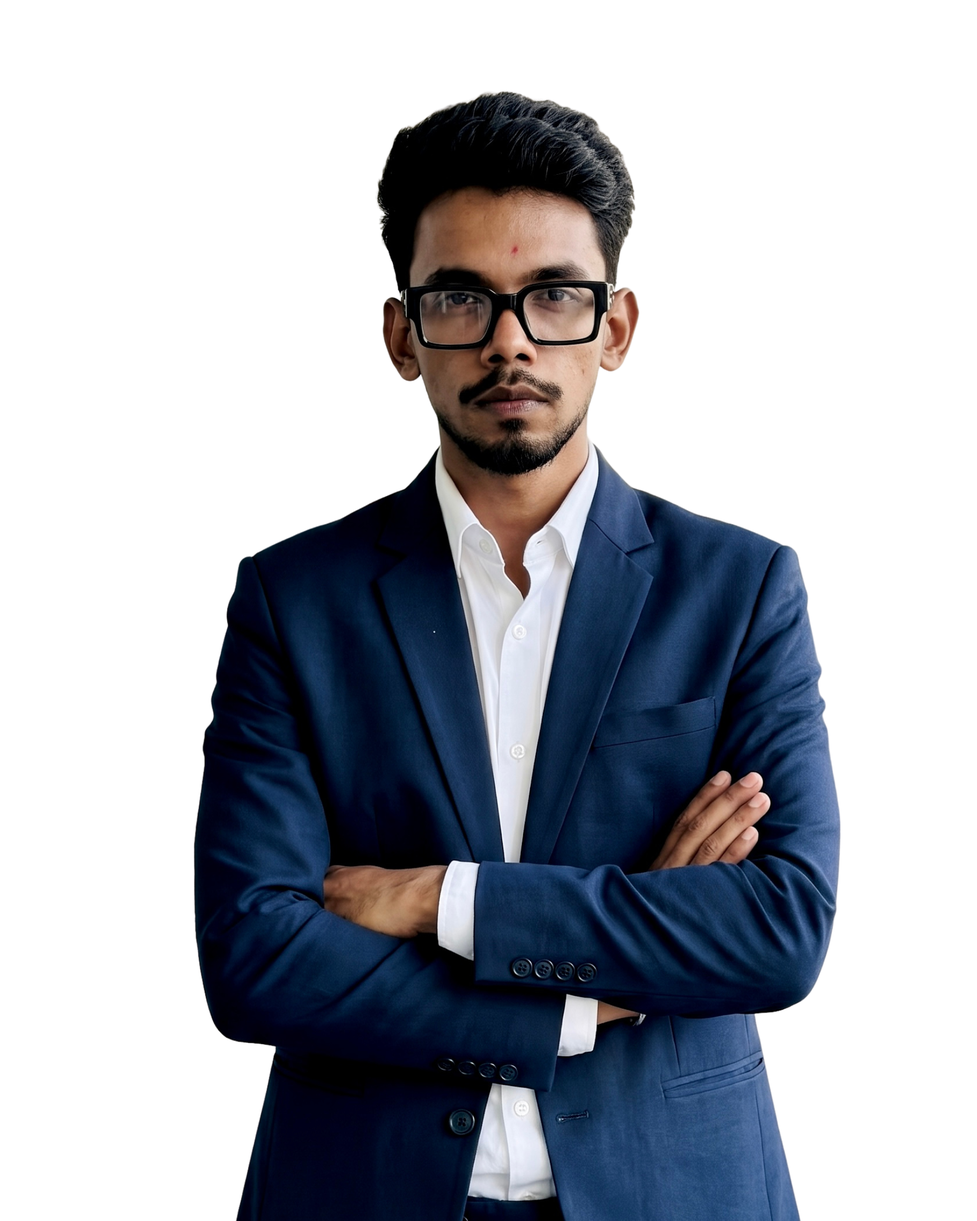
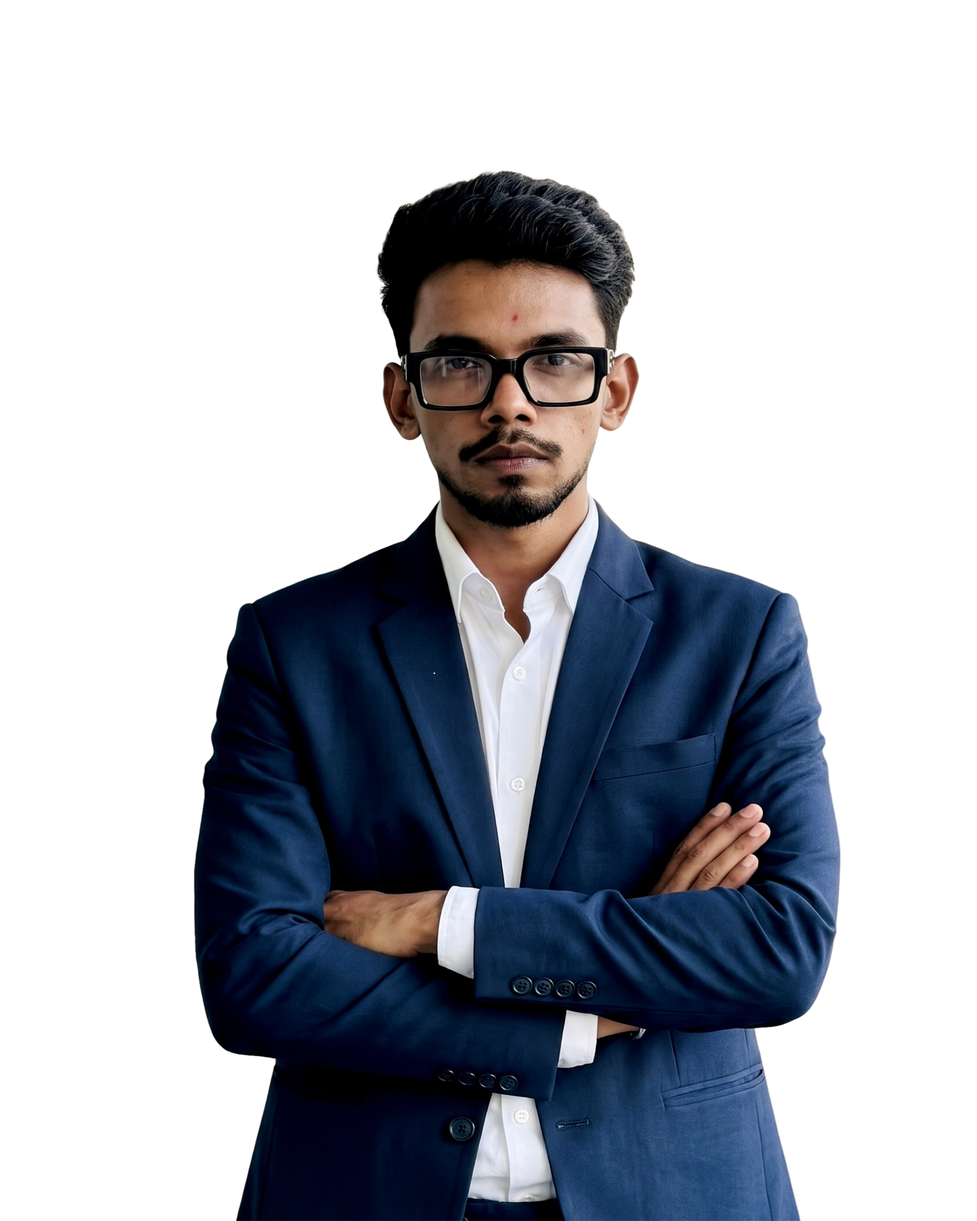
Fix founder image headroom, update agency metrics to 120+ brands / 1000+ reels / 5K+ leads, and link official social media profiles site-wide

diff --git a/home/index.html b/home/index.html
@@ -369,15 +369,15 @@
         <p class="sd-stat-label">Brands Served</p>
       </div>
       <div class="sd-stat-card" style="--i:1">
-        <div class="sd-stat-num"><span class="sd-num" data-target="3500" data-comma="true">0</span>+</div>
+        <div class="sd-stat-num"><span class="sd-num" data-target="1000" data-comma="true">0</span>+</div>
         <p class="sd-stat-label">Reels Created</p>
       </div>
       <div class="sd-stat-card" style="--i:2">
-        <div class="sd-stat-num"><span class="sd-num" data-target="1200" data-comma="true">0</span>+</div>
+        <div class="sd-stat-num"><span class="sd-num" data-target="500" data-comma="true">0</span>+</div>
         <p class="sd-stat-label">Blogs Published</p>
       </div>
       <div class="sd-stat-card" style="--i:3">
-        <div class="sd-stat-num"><span class="sd-num" data-target="250" data-comma="false">0</span>K+</div>
+        <div class="sd-stat-num"><span class="sd-num" data-target="5" data-comma="false">0</span>K+</div>
         <p class="sd-stat-label">Leads Generated</p>
       </div>
     </div>
@@ -649,7 +649,7 @@
   .fd-photo{position:absolute;inset:6%;border-radius:36px;overflow:hidden;background:linear-gradient(145deg,#2a2b30,#18191c);border:1px solid #2c2d31;display:grid;place-items:center;transform:rotate(-3deg);transition:transform .6s cubic-bezier(.2,.7,.2,1);box-shadow:0 0 80px rgba(255,214,10,.15)}
   .fd-vis:hover .fd-photo{transform:rotate(0)}
   .fd-photo span{font:700 120px/1 'Outfit',sans-serif;color:var(--y);opacity:.9}
-  .fd-photo img{position:absolute;inset:0;width:100%;height:100%;object-fit:cover}
+  .fd-photo img{position:absolute;inset:0;width:100%;height:100%;object-fit:cover;object-position:center top}
   .fd-chip{position:absolute;padding:12px 16px;border-radius:16px;background:rgba(28,29,33,.9);backdrop-filter:blur(8px);border:1px solid #2a2b30;font:600 13px/1.3 'Outfit',sans-serif;box-shadow:0 10px 30px rgba(0,0,0,.4);animation:zflt 5s ease-in-out infinite}
   .fd-chip strong{display:block;font-size:24px;color:var(--y)}
   .fd-chip.a{top:4%;right:-4%}.fd-chip.b{bottom:6%;left:-6%;animation-delay:-2.5s}
@@ -811,7 +811,7 @@
       <img src="assets/chandan rai.png" alt="Chandan Rai, Founder of Zyrox Media" onerror="this.style.display='none'">
      </div>
      <div class="fd-chip a"><strong>3+</strong>Years Groundwork</div>
-     <div class="fd-chip b"><strong>150+</strong>Brands Scaled</div>
+     <div class="fd-chip b"><strong>120+</strong>Brands Scaled</div>
     </div>
 
     <div class="fd-txt">
@@ -829,8 +829,8 @@
 
      <div class="fd-sign zrv" style="--i:7">
       <div><strong>Chandan Rai</strong><small>Founder, Zyrox Media</small></div>
-      <a href="https://linkedin.com" target="_blank" rel="noopener noreferrer" aria-label="LinkedIn"><svg class="ic" aria-hidden="true"><use href="#zx-in"/></svg></a>
-      <a href="https://instagram.com" target="_blank" rel="noopener noreferrer" aria-label="Instagram"><svg class="ic" aria-hidden="true"><use href="#zx-ig"/></svg></a>
+      <a href="https://www.linkedin.com/groups/40993074" target="_blank" rel="noopener noreferrer" aria-label="LinkedIn"><svg class="ic" aria-hidden="true"><use href="#zx-in"/></svg></a>
+      <a href="https://www.instagram.com/zyroxmediaad?obrf=NTVvMjM5dWs4bTN5&amp;utm_source=qr" target="_blank" rel="noopener noreferrer" aria-label="Instagram"><svg class="ic" aria-hidden="true"><use href="#zx-ig"/></svg></a>
       <a href="mailto:zyroxmediaa@gmail.com" aria-label="Email"><svg class="ic" aria-hidden="true"><use href="#zx-mail"/></svg></a>
       <button type="button" class="pf-btn" data-name="Chandan Rai" data-initials="CR" data-photo="assets/chandan rai.png" data-tagline="Founder &amp; Growth Architect|&amp;|Digital Strategist" data-summary="I didn’t just learn digital marketing—I spent the last three years doing the actual groundwork. Because I have personally sat down and executed everything from website coding and SEO to video editing, I understand the core of this work better than anyone. I know exactly what it takes to build things from scratch and deliver real results. Now, as the Founder of Zyrox Media, I bring that unmatched, hands-on expertise to scale brands effectively." data-stat="3+|Years of|Groundwork" data-skills="SEO Expert|Web Developer (WordPress &amp; Shopify)|Graphic Design|Video Editing &amp; Shoot|AI Tools &amp; Digital Strategy"><svg class="ic" aria-hidden="true"><use href="#zx-play"/></svg> View Portfolio</button>
      </div>
@@ -854,8 +854,8 @@
        <span>NS</span>
        <img src="assets/nitin soni.png" alt="Nitin Soni, Professional Video Editor at Zyrox Media" loading="lazy" onerror="this.style.display='none'">
        <div class="tm-soc">
-        <a href="https://linkedin.com" target="_blank" rel="noopener noreferrer" aria-label="LinkedIn"><svg class="ic" aria-hidden="true"><use href="#zx-in"/></svg></a>
-        <a href="https://instagram.com" target="_blank" rel="noopener noreferrer" aria-label="Instagram"><svg class="ic" aria-hidden="true"><use href="#zx-ig"/></svg></a>
+        <a href="https://www.linkedin.com/groups/40993074" target="_blank" rel="noopener noreferrer" aria-label="LinkedIn"><svg class="ic" aria-hidden="true"><use href="#zx-in"/></svg></a>
+        <a href="https://www.instagram.com/zyroxmediaad?obrf=NTVvMjM5dWs4bTN5&amp;utm_source=qr" target="_blank" rel="noopener noreferrer" aria-label="Instagram"><svg class="ic" aria-hidden="true"><use href="#zx-ig"/></svg></a>
         <a href="mailto:zyroxmediaa@gmail.com" aria-label="Email"><svg class="ic" aria-hidden="true"><use href="#zx-mail"/></svg></a>
        </div>
       </div>
@@ -872,8 +872,8 @@
        <span>KR</span>
        <img src="assets/kum kum.png" alt="Kumkum Rai, Social Media Manager &amp; Graphic Designer at Zyrox Media" loading="lazy" onerror="this.style.display='none'">
        <div class="tm-soc">
-        <a href="https://linkedin.com" target="_blank" rel="noopener noreferrer" aria-label="LinkedIn"><svg class="ic" aria-hidden="true"><use href="#zx-in"/></svg></a>
-        <a href="https://instagram.com" target="_blank" rel="noopener noreferrer" aria-label="Instagram"><svg class="ic" aria-hidden="true"><use href="#zx-ig"/></svg></a>
+        <a href="https://www.linkedin.com/groups/40993074" target="_blank" rel="noopener noreferrer" aria-label="LinkedIn"><svg class="ic" aria-hidden="true"><use href="#zx-in"/></svg></a>
+        <a href="https://www.instagram.com/zyroxmediaad?obrf=NTVvMjM5dWs4bTN5&amp;utm_source=qr" target="_blank" rel="noopener noreferrer" aria-label="Instagram"><svg class="ic" aria-hidden="true"><use href="#zx-ig"/></svg></a>
         <a href="mailto:zyroxmediaa@gmail.com" aria-label="Email"><svg class="ic" aria-hidden="true"><use href="#zx-mail"/></svg></a>
        </div>
       </div>
@@ -890,8 +890,8 @@
        <span>VS</span>
        <img src="assets/vishal singh.png" alt="Vishal Singh, Client Acquisition Specialist at Zyrox Media" loading="lazy" onerror="this.style.display='none'">
        <div class="tm-soc">
-        <a href="https://linkedin.com" target="_blank" rel="noopener noreferrer" aria-label="LinkedIn"><svg class="ic" aria-hidden="true"><use href="#zx-in"/></svg></a>
-        <a href="https://instagram.com" target="_blank" rel="noopener noreferrer" aria-label="Instagram"><svg class="ic" aria-hidden="true"><use href="#zx-ig"/></svg></a>
+        <a href="https://www.linkedin.com/groups/40993074" target="_blank" rel="noopener noreferrer" aria-label="LinkedIn"><svg class="ic" aria-hidden="true"><use href="#zx-in"/></svg></a>
+        <a href="https://www.instagram.com/zyroxmediaad?obrf=NTVvMjM5dWs4bTN5&amp;utm_source=qr" target="_blank" rel="noopener noreferrer" aria-label="Instagram"><svg class="ic" aria-hidden="true"><use href="#zx-ig"/></svg></a>
         <a href="mailto:zyroxmediaa@gmail.com" aria-label="Email"><svg class="ic" aria-hidden="true"><use href="#zx-mail"/></svg></a>
        </div>
       </div>
@@ -1431,10 +1431,10 @@
           </a>
           <p class="ft-about">Architecturally disciplined digital marketing agency engineering exponential organic and paid acquisition for ambitious global brands.</p>
           <div class="ft-soc">
-            <a href="https://instagram.com" target="_blank" rel="noopener noreferrer" aria-label="Instagram"><svg class="ft-ic"><use href="#ft-ig"/></svg></a>
-            <a href="https://linkedin.com" target="_blank" rel="noopener noreferrer" aria-label="LinkedIn"><svg class="ft-ic"><use href="#ft-in"/></svg></a>
-            <a href="https://youtube.com" target="_blank" rel="noopener noreferrer" aria-label="YouTube"><svg class="ft-ic"><use href="#ft-yt"/></svg></a>
-            <a href="https://facebook.com" target="_blank" rel="noopener noreferrer" aria-label="Facebook"><svg class="ft-ic"><use href="#ft-fb"/></svg></a>
+            <a href="https://www.instagram.com/zyroxmediaad?obrf=NTVvMjM5dWs4bTN5&amp;utm_source=qr" target="_blank" rel="noopener noreferrer" aria-label="Instagram"><svg class="ft-ic"><use href="#ft-ig"/></svg></a>
+            <a href="https://www.linkedin.com/groups/40993074" target="_blank" rel="noopener noreferrer" aria-label="LinkedIn"><svg class="ft-ic"><use href="#ft-in"/></svg></a>
+            <a href="https://www.youtube.com/@ZyroxMedia-s3m" target="_blank" rel="noopener noreferrer" aria-label="YouTube"><svg class="ft-ic"><use href="#ft-yt"/></svg></a>
+            <a href="https://www.facebook.com/share/1Dh3682e8E/?mibextid=wwXIfr" target="_blank" rel="noopener noreferrer" aria-label="Facebook"><svg class="ft-ic"><use href="#ft-fb"/></svg></a>
           </div>
         </div>
 

diff --git a/index.html b/index.html
@@ -369,15 +369,15 @@
         <p class="sd-stat-label">Brands Served</p>
       </div>
       <div class="sd-stat-card" style="--i:1">
-        <div class="sd-stat-num"><span class="sd-num" data-target="3500" data-comma="true">0</span>+</div>
+        <div class="sd-stat-num"><span class="sd-num" data-target="1000" data-comma="true">0</span>+</div>
         <p class="sd-stat-label">Reels Created</p>
       </div>
       <div class="sd-stat-card" style="--i:2">
-        <div class="sd-stat-num"><span class="sd-num" data-target="1200" data-comma="true">0</span>+</div>
+        <div class="sd-stat-num"><span class="sd-num" data-target="500" data-comma="true">0</span>+</div>
         <p class="sd-stat-label">Blogs Published</p>
       </div>
       <div class="sd-stat-card" style="--i:3">
-        <div class="sd-stat-num"><span class="sd-num" data-target="250" data-comma="false">0</span>K+</div>
+        <div class="sd-stat-num"><span class="sd-num" data-target="5" data-comma="false">0</span>K+</div>
         <p class="sd-stat-label">Leads Generated</p>
       </div>
     </div>
@@ -649,7 +649,7 @@
   .fd-photo{position:absolute;inset:6%;border-radius:36px;overflow:hidden;background:linear-gradient(145deg,#2a2b30,#18191c);border:1px solid #2c2d31;display:grid;place-items:center;transform:rotate(-3deg);transition:transform .6s cubic-bezier(.2,.7,.2,1);box-shadow:0 0 80px rgba(255,214,10,.15)}
   .fd-vis:hover .fd-photo{transform:rotate(0)}
   .fd-photo span{font:700 120px/1 'Outfit',sans-serif;color:var(--y);opacity:.9}
-  .fd-photo img{position:absolute;inset:0;width:100%;height:100%;object-fit:cover}
+  .fd-photo img{position:absolute;inset:0;width:100%;height:100%;object-fit:cover;object-position:center top}
   .fd-chip{position:absolute;padding:12px 16px;border-radius:16px;background:rgba(28,29,33,.9);backdrop-filter:blur(8px);border:1px solid #2a2b30;font:600 13px/1.3 'Outfit',sans-serif;box-shadow:0 10px 30px rgba(0,0,0,.4);animation:zflt 5s ease-in-out infinite}
   .fd-chip strong{display:block;font-size:24px;color:var(--y)}
   .fd-chip.a{top:4%;right:-4%}.fd-chip.b{bottom:6%;left:-6%;animation-delay:-2.5s}
@@ -811,7 +811,7 @@
       <img src="assets/chandan rai.png" alt="Chandan Rai, Founder of Zyrox Media" onerror="this.style.display='none'">
      </div>
      <div class="fd-chip a"><strong>3+</strong>Years Groundwork</div>
-     <div class="fd-chip b"><strong>150+</strong>Brands Scaled</div>
+     <div class="fd-chip b"><strong>120+</strong>Brands Scaled</div>
     </div>
 
     <div class="fd-txt">
@@ -829,8 +829,8 @@
 
      <div class="fd-sign zrv" style="--i:7">
       <div><strong>Chandan Rai</strong><small>Founder, Zyrox Media</small></div>
-      <a href="https://linkedin.com" target="_blank" rel="noopener noreferrer" aria-label="LinkedIn"><svg class="ic" aria-hidden="true"><use href="#zx-in"/></svg></a>
-      <a href="https://instagram.com" target="_blank" rel="noopener noreferrer" aria-label="Instagram"><svg class="ic" aria-hidden="true"><use href="#zx-ig"/></svg></a>
+      <a href="https://www.linkedin.com/groups/40993074" target="_blank" rel="noopener noreferrer" aria-label="LinkedIn"><svg class="ic" aria-hidden="true"><use href="#zx-in"/></svg></a>
+      <a href="https://www.instagram.com/zyroxmediaad?obrf=NTVvMjM5dWs4bTN5&amp;utm_source=qr" target="_blank" rel="noopener noreferrer" aria-label="Instagram"><svg class="ic" aria-hidden="true"><use href="#zx-ig"/></svg></a>
       <a href="mailto:zyroxmediaa@gmail.com" aria-label="Email"><svg class="ic" aria-hidden="true"><use href="#zx-mail"/></svg></a>
       <button type="button" class="pf-btn" data-name="Chandan Rai" data-initials="CR" data-photo="assets/chandan rai.png" data-tagline="Founder &amp; Growth Architect|&amp;|Digital Strategist" data-summary="I didn’t just learn digital marketing—I spent the last three years doing the actual groundwork. Because I have personally sat down and executed everything from website coding and SEO to video editing, I understand the core of this work better than anyone. I know exactly what it takes to build things from scratch and deliver real results. Now, as the Founder of Zyrox Media, I bring that unmatched, hands-on expertise to scale brands effectively." data-stat="3+|Years of|Groundwork" data-skills="SEO Expert|Web Developer (WordPress &amp; Shopify)|Graphic Design|Video Editing &amp; Shoot|AI Tools &amp; Digital Strategy"><svg class="ic" aria-hidden="true"><use href="#zx-play"/></svg> View Portfolio</button>
      </div>
@@ -854,8 +854,8 @@
        <span>NS</span>
        <img src="assets/nitin soni.png" alt="Nitin Soni, Professional Video Editor at Zyrox Media" loading="lazy" onerror="this.style.display='none'">
        <div class="tm-soc">
-        <a href="https://linkedin.com" target="_blank" rel="noopener noreferrer" aria-label="LinkedIn"><svg class="ic" aria-hidden="true"><use href="#zx-in"/></svg></a>
-        <a href="https://instagram.com" target="_blank" rel="noopener noreferrer" aria-label="Instagram"><svg class="ic" aria-hidden="true"><use href="#zx-ig"/></svg></a>
+        <a href="https://www.linkedin.com/groups/40993074" target="_blank" rel="noopener noreferrer" aria-label="LinkedIn"><svg class="ic" aria-hidden="true"><use href="#zx-in"/></svg></a>
+        <a href="https://www.instagram.com/zyroxmediaad?obrf=NTVvMjM5dWs4bTN5&amp;utm_source=qr" target="_blank" rel="noopener noreferrer" aria-label="Instagram"><svg class="ic" aria-hidden="true"><use href="#zx-ig"/></svg></a>
         <a href="mailto:zyroxmediaa@gmail.com" aria-label="Email"><svg class="ic" aria-hidden="true"><use href="#zx-mail"/></svg></a>
        </div>
       </div>
@@ -872,8 +872,8 @@
        <span>KR</span>
        <img src="assets/kum kum.png" alt="Kumkum Rai, Social Media Manager &amp; Graphic Designer at Zyrox Media" loading="lazy" onerror="this.style.display='none'">
        <div class="tm-soc">
-        <a href="https://linkedin.com" target="_blank" rel="noopener noreferrer" aria-label="LinkedIn"><svg class="ic" aria-hidden="true"><use href="#zx-in"/></svg></a>
-        <a href="https://instagram.com" target="_blank" rel="noopener noreferrer" aria-label="Instagram"><svg class="ic" aria-hidden="true"><use href="#zx-ig"/></svg></a>
+        <a href="https://www.linkedin.com/groups/40993074" target="_blank" rel="noopener noreferrer" aria-label="LinkedIn"><svg class="ic" aria-hidden="true"><use href="#zx-in"/></svg></a>
+        <a href="https://www.instagram.com/zyroxmediaad?obrf=NTVvMjM5dWs4bTN5&amp;utm_source=qr" target="_blank" rel="noopener noreferrer" aria-label="Instagram"><svg class="ic" aria-hidden="true"><use href="#zx-ig"/></svg></a>
         <a href="mailto:zyroxmediaa@gmail.com" aria-label="Email"><svg class="ic" aria-hidden="true"><use href="#zx-mail"/></svg></a>
        </div>
       </div>
@@ -890,8 +890,8 @@
        <span>VS</span>
        <img src="assets/vishal singh.png" alt="Vishal Singh, Client Acquisition Specialist at Zyrox Media" loading="lazy" onerror="this.style.display='none'">
        <div class="tm-soc">
-        <a href="https://linkedin.com" target="_blank" rel="noopener noreferrer" aria-label="LinkedIn"><svg class="ic" aria-hidden="true"><use href="#zx-in"/></svg></a>
-        <a href="https://instagram.com" target="_blank" rel="noopener noreferrer" aria-label="Instagram"><svg class="ic" aria-hidden="true"><use href="#zx-ig"/></svg></a>
+        <a href="https://www.linkedin.com/groups/40993074" target="_blank" rel="noopener noreferrer" aria-label="LinkedIn"><svg class="ic" aria-hidden="true"><use href="#zx-in"/></svg></a>
+        <a href="https://www.instagram.com/zyroxmediaad?obrf=NTVvMjM5dWs4bTN5&amp;utm_source=qr" target="_blank" rel="noopener noreferrer" aria-label="Instagram"><svg class="ic" aria-hidden="true"><use href="#zx-ig"/></svg></a>
         <a href="mailto:zyroxmediaa@gmail.com" aria-label="Email"><svg class="ic" aria-hidden="true"><use href="#zx-mail"/></svg></a>
        </div>
       </div>
@@ -1431,10 +1431,10 @@
           </a>
           <p class="ft-about">Architecturally disciplined digital marketing agency engineering exponential organic and paid acquisition for ambitious global brands.</p>
           <div class="ft-soc">
-            <a href="https://instagram.com" target="_blank" rel="noopener noreferrer" aria-label="Instagram"><svg class="ft-ic"><use href="#ft-ig"/></svg></a>
-            <a href="https://linkedin.com" target="_blank" rel="noopener noreferrer" aria-label="LinkedIn"><svg class="ft-ic"><use href="#ft-in"/></svg></a>
-            <a href="https://youtube.com" target="_blank" rel="noopener noreferrer" aria-label="YouTube"><svg class="ft-ic"><use href="#ft-yt"/></svg></a>
-            <a href="https://facebook.com" target="_blank" rel="noopener noreferrer" aria-label="Facebook"><svg class="ft-ic"><use href="#ft-fb"/></svg></a>
+            <a href="https://www.instagram.com/zyroxmediaad?obrf=NTVvMjM5dWs4bTN5&amp;utm_source=qr" target="_blank" rel="noopener noreferrer" aria-label="Instagram"><svg class="ft-ic"><use href="#ft-ig"/></svg></a>
+            <a href="https://www.linkedin.com/groups/40993074" target="_blank" rel="noopener noreferrer" aria-label="LinkedIn"><svg class="ft-ic"><use href="#ft-in"/></svg></a>
+            <a href="https://www.youtube.com/@ZyroxMedia-s3m" target="_blank" rel="noopener noreferrer" aria-label="YouTube"><svg class="ft-ic"><use href="#ft-yt"/></svg></a>
+            <a href="https://www.facebook.com/share/1Dh3682e8E/?mibextid=wwXIfr" target="_blank" rel="noopener noreferrer" aria-label="Facebook"><svg class="ft-ic"><use href="#ft-fb"/></svg></a>
           </div>
         </div>
 

diff --git a/contact.html b/contact.html
@@ -1039,22 +1039,10 @@
           <p class="ft-about">Architecturally disciplined digital marketing agency engineering exponential organic and
             paid acquisition for ambitious global brands.</p>
           <div class="ft-soc">
-            <a href="https://instagram.com" target="_blank" rel="noopener noreferrer" aria-label="Instagram"><svg
-                class="ft-ic">
-                <use href="#ft-ig" />
-              </svg></a>
-            <a href="https://linkedin.com" target="_blank" rel="noopener noreferrer" aria-label="LinkedIn"><svg
-                class="ft-ic">
-                <use href="#ft-in" />
-              </svg></a>
-            <a href="https://youtube.com" target="_blank" rel="noopener noreferrer" aria-label="YouTube"><svg
-                class="ft-ic">
-                <use href="#ft-yt" />
-              </svg></a>
-            <a href="https://facebook.com" target="_blank" rel="noopener noreferrer" aria-label="Facebook"><svg
-                class="ft-ic">
-                <use href="#ft-fb" />
-              </svg></a>
+            <a href="https://www.instagram.com/zyroxmediaad?obrf=NTVvMjM5dWs4bTN5&amp;utm_source=qr" target="_blank" rel="noopener noreferrer" aria-label="Instagram"><svg class="ft-ic"><use href="#ft-ig" /></svg></a>
+            <a href="https://www.linkedin.com/groups/40993074" target="_blank" rel="noopener noreferrer" aria-label="LinkedIn"><svg class="ft-ic"><use href="#ft-in" /></svg></a>
+            <a href="https://www.youtube.com/@ZyroxMedia-s3m" target="_blank" rel="noopener noreferrer" aria-label="YouTube"><svg class="ft-ic"><use href="#ft-yt" /></svg></a>
+            <a href="https://www.facebook.com/share/1Dh3682e8E/?mibextid=wwXIfr" target="_blank" rel="noopener noreferrer" aria-label="Facebook"><svg class="ft-ic"><use href="#ft-fb" /></svg></a>
           </div>
         </div>
 

diff --git a/contact/index.html b/contact/index.html
@@ -1039,22 +1039,10 @@
           <p class="ft-about">Architecturally disciplined digital marketing agency engineering exponential organic and
             paid acquisition for ambitious global brands.</p>
           <div class="ft-soc">
-            <a href="https://instagram.com" target="_blank" rel="noopener noreferrer" aria-label="Instagram"><svg
-                class="ft-ic">
-                <use href="#ft-ig" />
-              </svg></a>
-            <a href="https://linkedin.com" target="_blank" rel="noopener noreferrer" aria-label="LinkedIn"><svg
-                class="ft-ic">
-                <use href="#ft-in" />
-              </svg></a>
-            <a href="https://youtube.com" target="_blank" rel="noopener noreferrer" aria-label="YouTube"><svg
-                class="ft-ic">
-                <use href="#ft-yt" />
-              </svg></a>
-            <a href="https://facebook.com" target="_blank" rel="noopener noreferrer" aria-label="Facebook"><svg
-                class="ft-ic">
-                <use href="#ft-fb" />
-              </svg></a>
+            <a href="https://www.instagram.com/zyroxmediaad?obrf=NTVvMjM5dWs4bTN5&amp;utm_source=qr" target="_blank" rel="noopener noreferrer" aria-label="Instagram"><svg class="ft-ic"><use href="#ft-ig" /></svg></a>
+            <a href="https://www.linkedin.com/groups/40993074" target="_blank" rel="noopener noreferrer" aria-label="LinkedIn"><svg class="ft-ic"><use href="#ft-in" /></svg></a>
+            <a href="https://www.youtube.com/@ZyroxMedia-s3m" target="_blank" rel="noopener noreferrer" aria-label="YouTube"><svg class="ft-ic"><use href="#ft-yt" /></svg></a>
+            <a href="https://www.facebook.com/share/1Dh3682e8E/?mibextid=wwXIfr" target="_blank" rel="noopener noreferrer" aria-label="Facebook"><svg class="ft-ic"><use href="#ft-fb" /></svg></a>
           </div>
         </div>
 

diff --git a/services.html b/services.html
@@ -1032,10 +1032,10 @@
           </a>
           <p class="ft-about">Architecturally disciplined digital marketing agency engineering exponential organic and paid acquisition for ambitious global brands.</p>
           <div class="ft-soc">
-            <a href="https://instagram.com" target="_blank" rel="noopener noreferrer" aria-label="Instagram"><svg class="ft-ic"><use href="#ft-ig"/></svg></a>
-            <a href="https://linkedin.com" target="_blank" rel="noopener noreferrer" aria-label="LinkedIn"><svg class="ft-ic"><use href="#ft-in"/></svg></a>
-            <a href="https://youtube.com" target="_blank" rel="noopener noreferrer" aria-label="YouTube"><svg class="ft-ic"><use href="#ft-yt"/></svg></a>
-            <a href="https://facebook.com" target="_blank" rel="noopener noreferrer" aria-label="Facebook"><svg class="ft-ic"><use href="#ft-fb"/></svg></a>
+            <a href="https://www.instagram.com/zyroxmediaad?obrf=NTVvMjM5dWs4bTN5&amp;utm_source=qr" target="_blank" rel="noopener noreferrer" aria-label="Instagram"><svg class="ft-ic"><use href="#ft-ig"/></svg></a>
+            <a href="https://www.linkedin.com/groups/40993074" target="_blank" rel="noopener noreferrer" aria-label="LinkedIn"><svg class="ft-ic"><use href="#ft-in"/></svg></a>
+            <a href="https://www.youtube.com/@ZyroxMedia-s3m" target="_blank" rel="noopener noreferrer" aria-label="YouTube"><svg class="ft-ic"><use href="#ft-yt"/></svg></a>
+            <a href="https://www.facebook.com/share/1Dh3682e8E/?mibextid=wwXIfr" target="_blank" rel="noopener noreferrer" aria-label="Facebook"><svg class="ft-ic"><use href="#ft-fb"/></svg></a>
           </div>
         </div>
 

diff --git a/services/index.html b/services/index.html
@@ -1032,10 +1032,10 @@
           </a>
           <p class="ft-about">Architecturally disciplined digital marketing agency engineering exponential organic and paid acquisition for ambitious global brands.</p>
           <div class="ft-soc">
-            <a href="https://instagram.com" target="_blank" rel="noopener noreferrer" aria-label="Instagram"><svg class="ft-ic"><use href="#ft-ig"/></svg></a>
-            <a href="https://linkedin.com" target="_blank" rel="noopener noreferrer" aria-label="LinkedIn"><svg class="ft-ic"><use href="#ft-in"/></svg></a>
-            <a href="https://youtube.com" target="_blank" rel="noopener noreferrer" aria-label="YouTube"><svg class="ft-ic"><use href="#ft-yt"/></svg></a>
-            <a href="https://facebook.com" target="_blank" rel="noopener noreferrer" aria-label="Facebook"><svg class="ft-ic"><use href="#ft-fb"/></svg></a>
+            <a href="https://www.instagram.com/zyroxmediaad?obrf=NTVvMjM5dWs4bTN5&amp;utm_source=qr" target="_blank" rel="noopener noreferrer" aria-label="Instagram"><svg class="ft-ic"><use href="#ft-ig"/></svg></a>
+            <a href="https://www.linkedin.com/groups/40993074" target="_blank" rel="noopener noreferrer" aria-label="LinkedIn"><svg class="ft-ic"><use href="#ft-in"/></svg></a>
+            <a href="https://www.youtube.com/@ZyroxMedia-s3m" target="_blank" rel="noopener noreferrer" aria-label="YouTube"><svg class="ft-ic"><use href="#ft-yt"/></svg></a>
+            <a href="https://www.facebook.com/share/1Dh3682e8E/?mibextid=wwXIfr" target="_blank" rel="noopener noreferrer" aria-label="Facebook"><svg class="ft-ic"><use href="#ft-fb"/></svg></a>
           </div>
         </div>
 

diff --git a/about.html b/about.html
@@ -490,10 +490,10 @@
           </a>
           <p class="ft-about">Architecturally disciplined digital marketing agency engineering exponential organic and paid acquisition for ambitious global brands.</p>
           <div class="ft-soc">
-            <a href="https://instagram.com" target="_blank" rel="noopener noreferrer" aria-label="Instagram"><svg class="ft-ic"><use href="#ft-ig"/></svg></a>
-            <a href="https://linkedin.com" target="_blank" rel="noopener noreferrer" aria-label="LinkedIn"><svg class="ft-ic"><use href="#ft-in"/></svg></a>
-            <a href="https://youtube.com" target="_blank" rel="noopener noreferrer" aria-label="YouTube"><svg class="ft-ic"><use href="#ft-yt"/></svg></a>
-            <a href="https://facebook.com" target="_blank" rel="noopener noreferrer" aria-label="Facebook"><svg class="ft-ic"><use href="#ft-fb"/></svg></a>
+            <a href="https://www.instagram.com/zyroxmediaad?obrf=NTVvMjM5dWs4bTN5&amp;utm_source=qr" target="_blank" rel="noopener noreferrer" aria-label="Instagram"><svg class="ft-ic"><use href="#ft-ig"/></svg></a>
+            <a href="https://www.linkedin.com/groups/40993074" target="_blank" rel="noopener noreferrer" aria-label="LinkedIn"><svg class="ft-ic"><use href="#ft-in"/></svg></a>
+            <a href="https://www.youtube.com/@ZyroxMedia-s3m" target="_blank" rel="noopener noreferrer" aria-label="YouTube"><svg class="ft-ic"><use href="#ft-yt"/></svg></a>
+            <a href="https://www.facebook.com/share/1Dh3682e8E/?mibextid=wwXIfr" target="_blank" rel="noopener noreferrer" aria-label="Facebook"><svg class="ft-ic"><use href="#ft-fb"/></svg></a>
           </div>
         </div>
 

diff --git a/about/index.html b/about/index.html
@@ -490,10 +490,10 @@
           </a>
           <p class="ft-about">Architecturally disciplined digital marketing agency engineering exponential organic and paid acquisition for ambitious global brands.</p>
           <div class="ft-soc">
-            <a href="https://instagram.com" target="_blank" rel="noopener noreferrer" aria-label="Instagram"><svg class="ft-ic"><use href="#ft-ig"/></svg></a>
-            <a href="https://linkedin.com" target="_blank" rel="noopener noreferrer" aria-label="LinkedIn"><svg class="ft-ic"><use href="#ft-in"/></svg></a>
-            <a href="https://youtube.com" target="_blank" rel="noopener noreferrer" aria-label="YouTube"><svg class="ft-ic"><use href="#ft-yt"/></svg></a>
-            <a href="https://facebook.com" target="_blank" rel="noopener noreferrer" aria-label="Facebook"><svg class="ft-ic"><use href="#ft-fb"/></svg></a>
+            <a href="https://www.instagram.com/zyroxmediaad?obrf=NTVvMjM5dWs4bTN5&amp;utm_source=qr" target="_blank" rel="noopener noreferrer" aria-label="Instagram"><svg class="ft-ic"><use href="#ft-ig"/></svg></a>
+            <a href="https://www.linkedin.com/groups/40993074" target="_blank" rel="noopener noreferrer" aria-label="LinkedIn"><svg class="ft-ic"><use href="#ft-in"/></svg></a>
+            <a href="https://www.youtube.com/@ZyroxMedia-s3m" target="_blank" rel="noopener noreferrer" aria-label="YouTube"><svg class="ft-ic"><use href="#ft-yt"/></svg></a>
+            <a href="https://www.facebook.com/share/1Dh3682e8E/?mibextid=wwXIfr" target="_blank" rel="noopener noreferrer" aria-label="Facebook"><svg class="ft-ic"><use href="#ft-fb"/></svg></a>
           </div>
         </div>
 

diff --git a/projects.html b/projects.html
@@ -944,10 +944,10 @@
           </a>
           <p class="ft-about">Architecturally disciplined digital marketing agency engineering exponential organic and paid acquisition for ambitious global brands.</p>
           <div class="ft-soc">
-            <a href="https://instagram.com" target="_blank" rel="noopener noreferrer" aria-label="Instagram"><svg class="ft-ic"><use href="#ft-ig"/></svg></a>
-            <a href="https://linkedin.com" target="_blank" rel="noopener noreferrer" aria-label="LinkedIn"><svg class="ft-ic"><use href="#ft-in"/></svg></a>
-            <a href="https://youtube.com" target="_blank" rel="noopener noreferrer" aria-label="YouTube"><svg class="ft-ic"><use href="#ft-yt"/></svg></a>
-            <a href="https://facebook.com" target="_blank" rel="noopener noreferrer" aria-label="Facebook"><svg class="ft-ic"><use href="#ft-fb"/></svg></a>
+            <a href="https://www.instagram.com/zyroxmediaad?obrf=NTVvMjM5dWs4bTN5&amp;utm_source=qr" target="_blank" rel="noopener noreferrer" aria-label="Instagram"><svg class="ft-ic"><use href="#ft-ig"/></svg></a>
+            <a href="https://www.linkedin.com/groups/40993074" target="_blank" rel="noopener noreferrer" aria-label="LinkedIn"><svg class="ft-ic"><use href="#ft-in"/></svg></a>
+            <a href="https://www.youtube.com/@ZyroxMedia-s3m" target="_blank" rel="noopener noreferrer" aria-label="YouTube"><svg class="ft-ic"><use href="#ft-yt"/></svg></a>
+            <a href="https://www.facebook.com/share/1Dh3682e8E/?mibextid=wwXIfr" target="_blank" rel="noopener noreferrer" aria-label="Facebook"><svg class="ft-ic"><use href="#ft-fb"/></svg></a>
           </div>
         </div>
 

diff --git a/projects/index.html b/projects/index.html
@@ -944,10 +944,10 @@
           </a>
           <p class="ft-about">Architecturally disciplined digital marketing agency engineering exponential organic and paid acquisition for ambitious global brands.</p>
           <div class="ft-soc">
-            <a href="https://instagram.com" target="_blank" rel="noopener noreferrer" aria-label="Instagram"><svg class="ft-ic"><use href="#ft-ig"/></svg></a>
-            <a href="https://linkedin.com" target="_blank" rel="noopener noreferrer" aria-label="LinkedIn"><svg class="ft-ic"><use href="#ft-in"/></svg></a>
-            <a href="https://youtube.com" target="_blank" rel="noopener noreferrer" aria-label="YouTube"><svg class="ft-ic"><use href="#ft-yt"/></svg></a>
-            <a href="https://facebook.com" target="_blank" rel="noopener noreferrer" aria-label="Facebook"><svg class="ft-ic"><use href="#ft-fb"/></svg></a>
+            <a href="https://www.instagram.com/zyroxmediaad?obrf=NTVvMjM5dWs4bTN5&amp;utm_source=qr" target="_blank" rel="noopener noreferrer" aria-label="Instagram"><svg class="ft-ic"><use href="#ft-ig"/></svg></a>
+            <a href="https://www.linkedin.com/groups/40993074" target="_blank" rel="noopener noreferrer" aria-label="LinkedIn"><svg class="ft-ic"><use href="#ft-in"/></svg></a>
+            <a href="https://www.youtube.com/@ZyroxMedia-s3m" target="_blank" rel="noopener noreferrer" aria-label="YouTube"><svg class="ft-ic"><use href="#ft-yt"/></svg></a>
+            <a href="https://www.facebook.com/share/1Dh3682e8E/?mibextid=wwXIfr" target="_blank" rel="noopener noreferrer" aria-label="Facebook"><svg class="ft-ic"><use href="#ft-fb"/></svg></a>
           </div>
         </div>
 

diff --git a/css/style.css b/css/style.css
@@ -2275,6 +2275,7 @@ h1, h2, h3, h4, h5, h6 {
   width: 100%;
   height: 100%;
   object-fit: cover;
+  object-position: center top;
 }
 .fd-chip {
   position: absolute;
